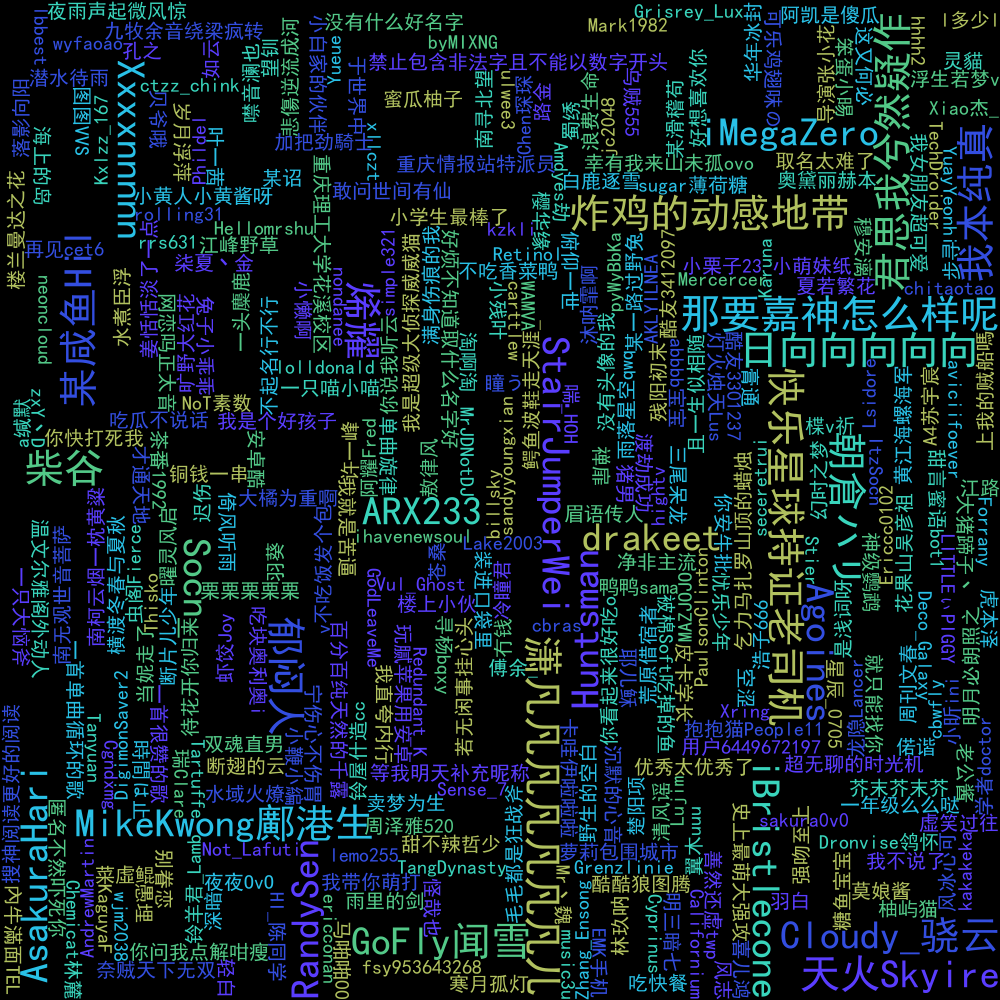
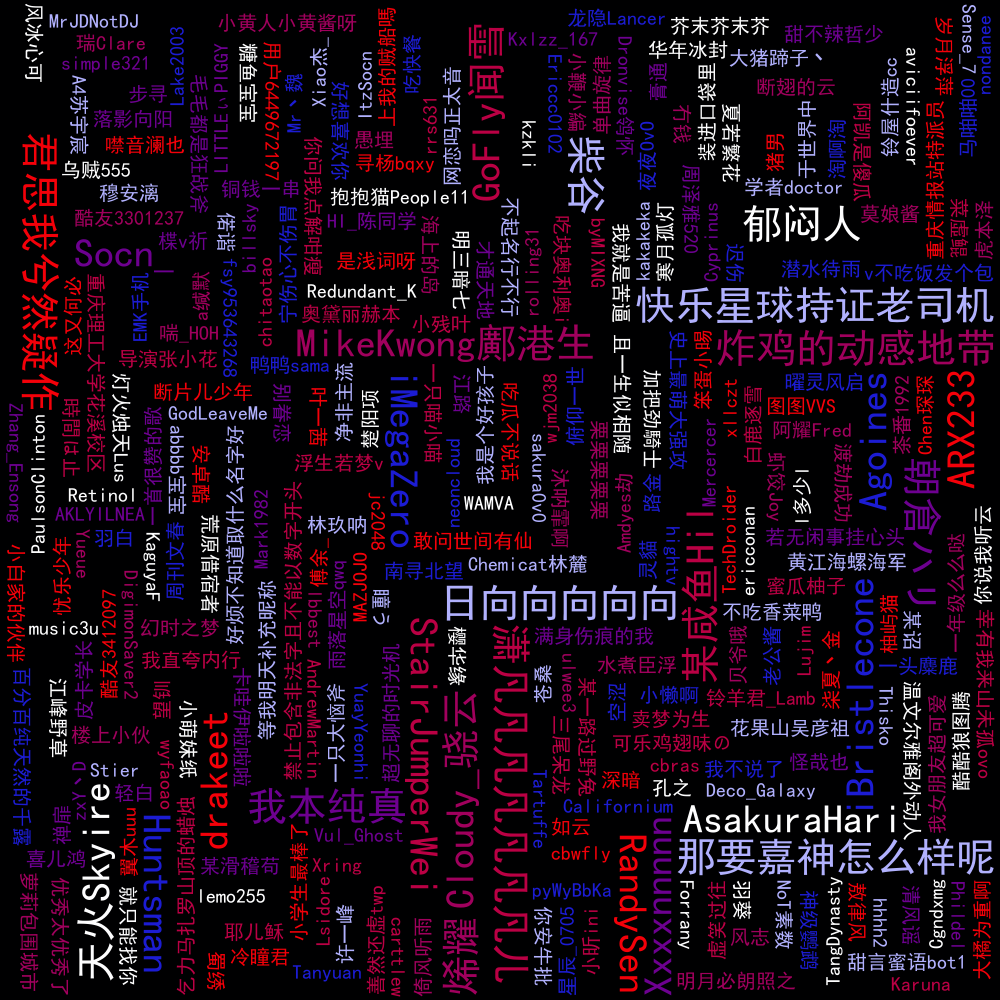
docs: 更改了示例输出图片的配色

diff --git a/CoolApkFans/src/FansWordCloud.java b/CoolApkFans/src/FansWordCloud.java
@@ -29,8 +29,12 @@ public class FansWordCloud {
      *
      */
     public static void getFansWordCloud(int userID, int width, int height) {
+        ArrayList<Data> fansDataList = runOnGetOldFansData(userID);
+        if (fansDataList == null) {
+            fansDataList = runOnGetNewFansData(userID);
+        }
         getFansWordCloud("黑体", 22, width, height,
-                "./pic/FansWordCloud.png",getWordFrequencies(userID));
+                "./pic/" + fansDataList.get(0).getFuid() + "-" + fansDataList.get(0).getFusername() + "-FansWordCloud.png",getWordFrequencies(userID));
     }
 
     /**
@@ -41,8 +45,12 @@ public class FansWordCloud {
      *
      */
     public static void getFansWordCloudWithImage(int userID, String backgroundImage) {
+        ArrayList<Data> fansDataList = runOnGetOldFansData(userID);
+        if (fansDataList == null) {
+            fansDataList = runOnGetNewFansData(userID);
+        }
         getFansWordCloudWithImage("黑体", 20,
-                "./pic/FansWordCloudWithImage.png",backgroundImage,getWordFrequencies(userID));
+                "./pic/" + fansDataList.get(0).getFuid() + "-" + fansDataList.get(0).getFusername() + "-FansWordCloudWithImage.png",backgroundImage,getWordFrequencies(userID));
     }
 
 
@@ -99,15 +107,17 @@ public class FansWordCloud {
         //WordCloud wordCloud = new WordCloud(dimension, CollisionMode.RECTANGLE);// 矩形
         WordCloud wordCloud = new WordCloud(dimension, CollisionMode.PIXEL_PERFECT);//完美像素 大概是尽量填充
         wordCloud.setBackground(new RectangleBackground(dimension));
-        wordCloud.setPadding(0);
+        wordCloud.setPadding(3);
         java.awt.Font font = new java.awt.Font(fontStr, Font.PLAIN, fontSize);// 设置字体,如果找不到设置的就会使用默认字体,字号请自行看情况调整
 
-        wordCloud.setColorPalette(new ColorPalette(new Color(0x5A3DFF), new Color(0x334EE0), new Color(0x29C1E7),
-                new Color(0x39D4BC), new Color(0x53C988), new Color(0xB1C15F)));//词云颜色
-        //wordCloud.setColorPalette(new ColorPalette(Color.RED, Color.GREEN, Color.YELLOW, Color.BLUE));//官方文档默认的
+        wordCloud.setColorPalette(new ColorPalette(new Color(0x1C1CD3), new Color(0x6D0090), new Color(0xB1B1FE),
+                new Color(0xF40009), new Color(0xBA0044), new Color(0xA0005D), new Color(0xFDFDFE)));//词云颜色
+
+        ////wordCloud.setColorPalette(new ColorPalette(Color.RED, Color.GREEN, Color.YELLOW, Color.BLUE));//官方文档默认的
         wordCloud.setKumoFont(new KumoFont(font));
         wordCloud.setFontScalar(new LinearFontScalar(10, 40));
-        wordCloud.setBackgroundColor(new Color(0, 0, 0));
+        wordCloud.setBackgroundColor(new Color(0, 0, 1));
+        //wordCloud.setBackgroundColor(new Color(255, 255, 255));
         wordCloud.build(wordFrequencies);
         wordCloud.writeToFile(outputFile);
     }
@@ -132,11 +142,12 @@ public class FansWordCloud {
             // WordCloud wordCloud = new WordCloud(dimension, CollisionMode.RECTANGLE);//矩形
             WordCloud wordCloud = new WordCloud(dimension, CollisionMode.PIXEL_PERFECT);// 完美像素大概指的是完成填充
             wordCloud.setBackground(new PixelBoundaryBackground(backgroundImage));// 设置背景蒙版使用图片,注意图片需要自行把不需要渲染的部分擦除成透明像素,否则会和矩形一样
-            wordCloud.setPadding(0);
+            wordCloud.setPadding(2);
             java.awt.Font font = new java.awt.Font(fontStr, Font.PLAIN, fontSize);// 设置字体,如果找不到设置的就会使用默认字体,字号请自行看情况调整
 
-            wordCloud.setColorPalette(new ColorPalette(new Color(0x5A3DFF), new Color(0x334EE0), new Color(0x29C1E7),
-                    new Color(0x39D4BC), new Color(0x53C988), new Color(0xB1C15F)));
+            wordCloud.setColorPalette(new ColorPalette(new Color(0x1C1CD3), new Color(0x6D0090), new Color(0xB1B1FE),
+                    new Color(0xF40009), new Color(0xBA0044), new Color(0xA0005D), new Color(0xFDFDFE)));//词云颜色
+
             wordCloud.setKumoFont(new KumoFont(font));
             wordCloud.setFontScalar(new LinearFontScalar(10, 40));
             wordCloud.setBackgroundColor(new Color(0, 0, 0));

diff --git a/CoolApkFans/src/main.java b/CoolApkFans/src/main.java
@@ -21,13 +21,21 @@ import java.util.List;
 public class main {
 
     public static void main(String[] args) {
+
+        //示例生成
+        FansWordCloud.getFansWordCloud(2086596,1000,1000,"./pic/FansWordCloud.png");
+        FansWordCloud.getFansWordCloudWithImage(2086596,"./pic/FansWordCloudWithImage.png","./pic/UserFace.png");
+
+
         FansWordCloud.getFansWordCloud(2086596,1000,1000);
         FansWordCloud.getFansWordCloudWithImage(2086596,"./pic/UserFace.png");
 
-        FansWordCloud.getFansWordCloud(2086596,1000,1000,"./pic/2086596-FansWordCloud.png");
-        FansWordCloud.getFansWordCloudWithImage(2086596,"./pic/2086596-FansWordCloudWithImage.png","./pic/UserFace.png");
 
-        FansWordCloud.getFansWordCloud(3596689,1000,1000,"./pic/3596689-FansWordCloud.png");
+        FansWordCloud.getFansWordCloud(3596689,800,800);
+
+        FansWordCloud.getFansWordCloud(1809499,1000,1000);
+        FansWordCloud.getFansWordCloud(2749583,1000,1000);
+        FansWordCloud.getFansWordCloud(1316828,1000,1000);
     }
 
 
